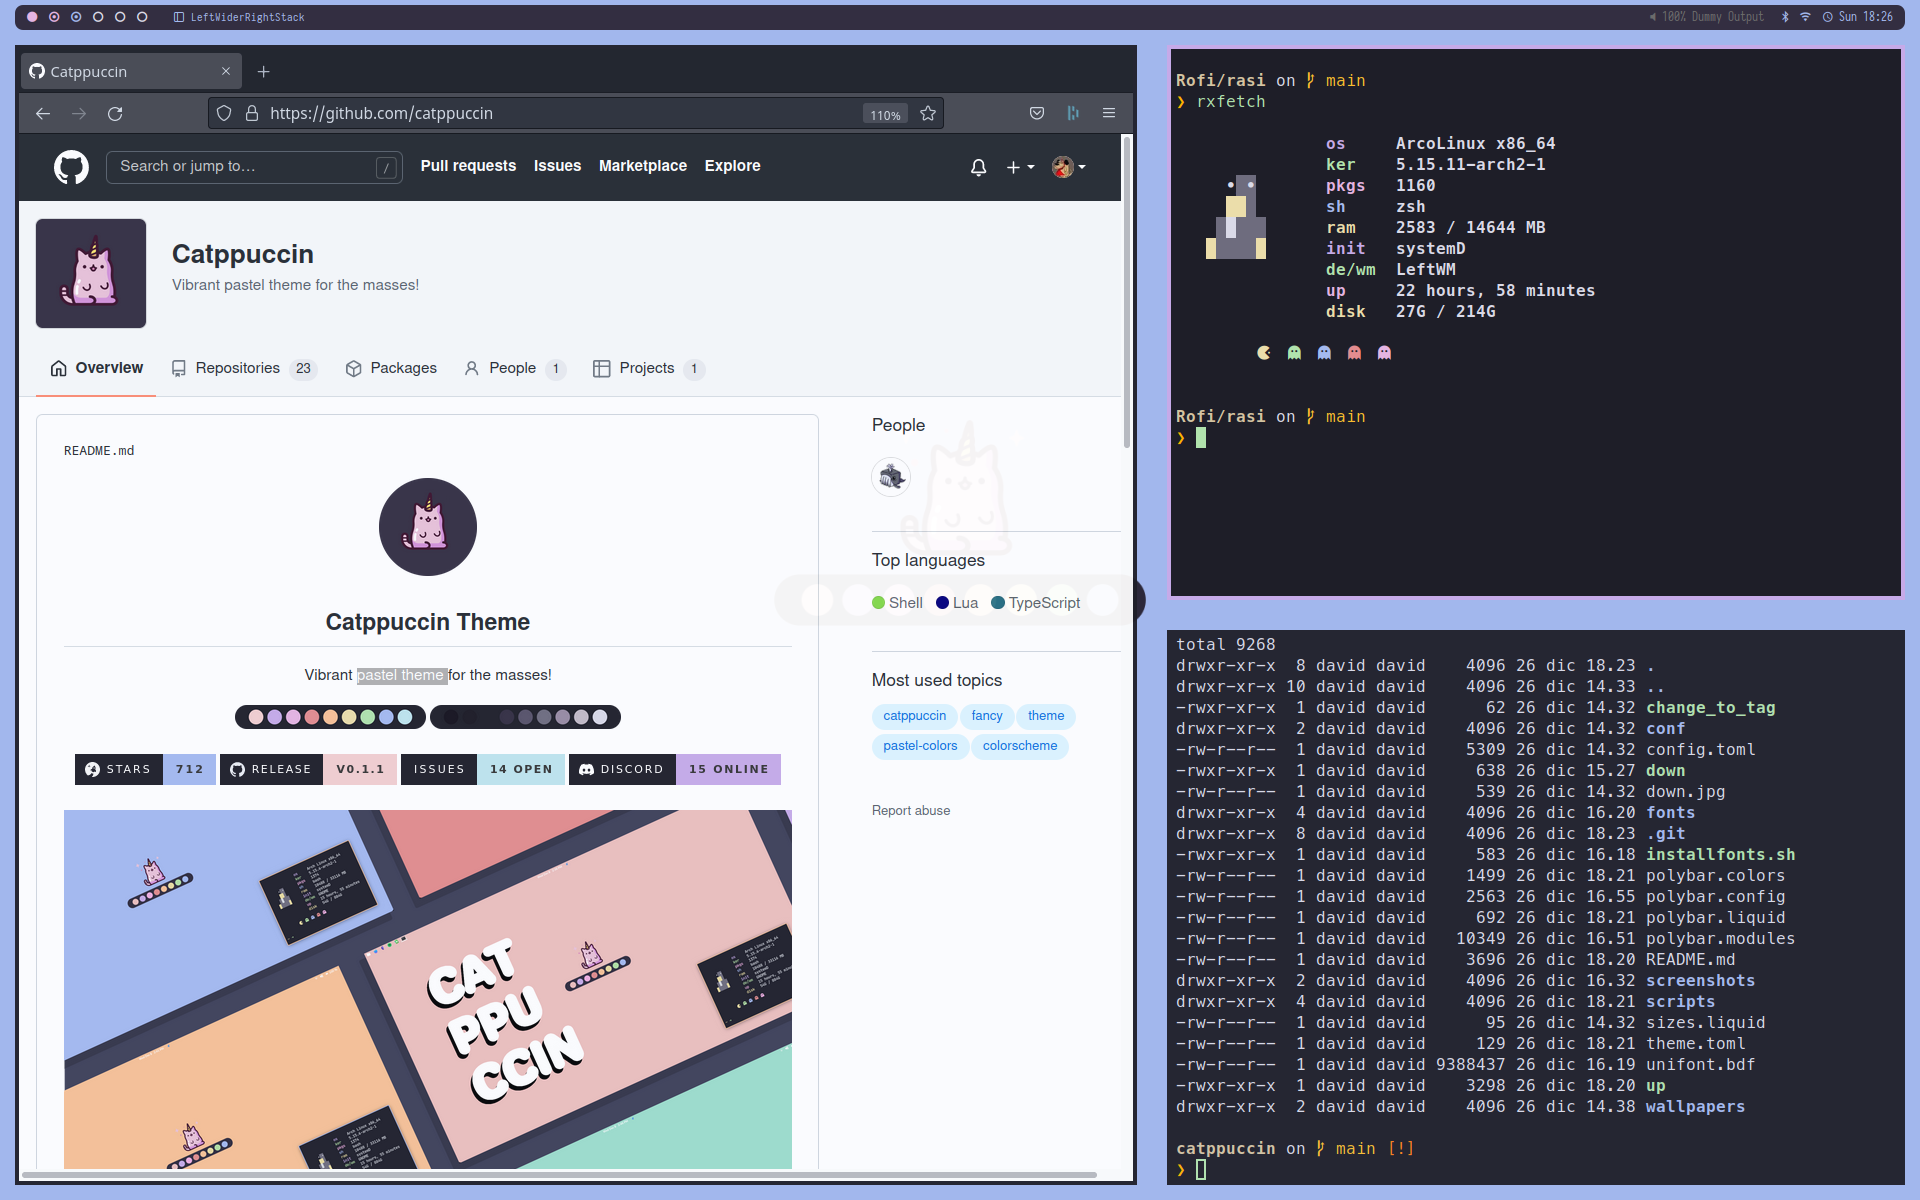
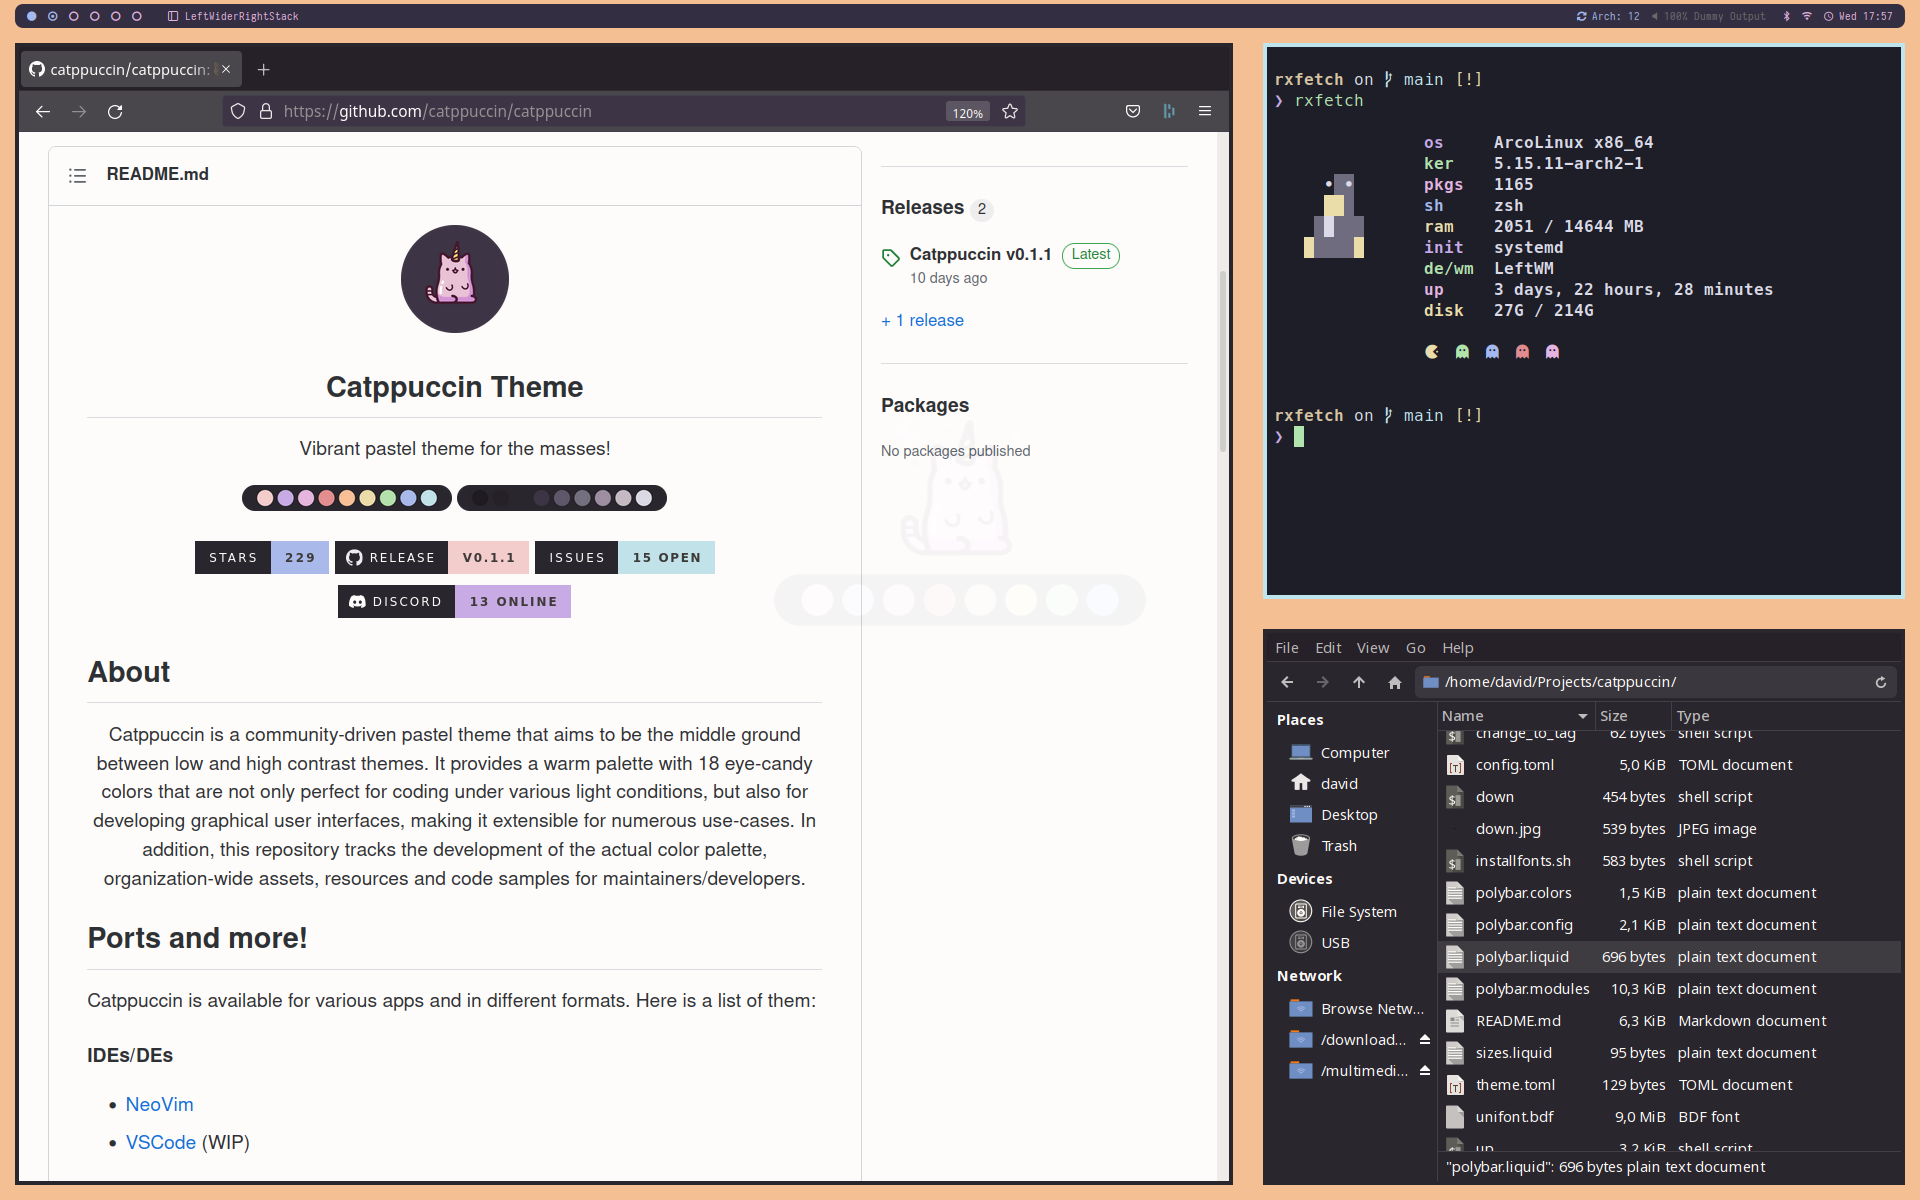
updates

diff --git a/README.md b/README.md
@@ -1,22 +1,23 @@
+# Catppuccin
+*A [LeftWM](https://github.com/leftwm/leftwm) minimalistic theme inspired by the adorable [homonymous pastel theme](https://github.com/catppuccin)*
+
+
 - [Catppuccin](#catppuccin)
 - [Screenshots](#screenshots)
 - [Dependencies](#dependencies)
 - [Installation](#installation)
 - [Configuration](#configuration)
+  - [Colors](#colors)
   - [Applets](#applets)
   - [Wallpapers](#wallpapers)
   - [Polybar](#polybar)
     - [Pulseaudio Control](#pulseaudio-control)
     - [Systray](#systray)
 - [Changelog](#changelog)
+  - [v0.1.1](#v011)
   - [v0.1.0](#v010)
   - [To do](#to-do)
 - [Credit / Sources](#credit--sources)
-
-
-# Catppuccin
-*A [LeftWM](https://github.com/leftwm/leftwm) minimalistic theme inspired by the adorable [homonymous pastel theme](https://github.com/catppuccin)*
-
 
 
 # Screenshots
@@ -94,6 +95,49 @@ $MOD + Shift + r
 
 
 # Configuration 
+
+## Colors
+In a theme like this colors are spread all over the place and it's not fun keep track of everything, every time you want to change something. That's why I am using a custom color script to do the dirty job for me.
+
+Colors are set each time the *UP* script run
+
+```
+source $SCRIPTPATH/scripts/colors.sh catppuccin
+```
+
+Two color themes are already available to choose from:
+- catppuccin
+- catppuccin2
+
+Long story short `colors.sh` performs different tasks, mostly `sed`, in all files where colors are set.
+The parameter after the script is communicating `colors.sh` to read from the colors variables from `scripts/colors_<THEME_NAME>.sh`, and by default that would be `scripts/colors_catppuccin.sh`
+
+```
+## Catppuccin theme
+COLOR_BAR_BACKGROUND="#332E41"
+COLOR_BAR_FOREGROUND="#BEE4ED"
+COLOR_BACKGROUND="#332E41"
+COLOR_FOREGROUND="#DADAE8"
+COLOR_FOREGROUND_DARK="#44475A"
+COLOR_PRIMARY="#E5B4E2"
+COLOR_SECONDARY="#BEE4ED"
+COLOR_ALTERNATE="#FFE70D"
+COLOR_INACTIVE="#757575"
+COLOR_BORDER_ACTIVE="#C6AAE8"
+COLOR_BORDER_INACTIVE="#1E1E28"
+COLOR_BORDER_FLOATING="#F9C096"
+COLOR_APPLET_BACKGROUND="#1E1E28"
+COLOR_APPLET_BACKGROUND_LIGHT="#332E41"
+
+```
+
+So, if you want to change colors manually comment the source `$SCRIPTPATH/scripts/colors.sh catppuccin` or your changes will be overwritten.
+
+My suggestion, to avoid going crazy, would be to use the same method and 
+- create a custom color theme
+- add your theme to the `themes=(catppuccin catppuccin2);` array in `colors.sh`
+- optionally adapt `colors.sh` to your needs
+
 
 ## Applets
 
@@ -185,12 +229,20 @@ If you want to use it change position and adjust the **tray-offset-x** value.
 
 # Changelog
 
+## v0.1.1
+- Multiple color themes
+  - catppuccin
+  - catppuccin2
+- Updated documentation
+- Minor changes
+
+
 ## v0.1.0
 - First release
 
 
 ## To do
-- [ ] More color schemes from the catppuccin project
+- [x] More color schemes from the catppuccin project
 
 
 
@@ -202,3 +254,4 @@ If you want to use it change position and adjust the **tray-offset-x** value.
 
 - Powermenu is loosely based on the [rofi-themes](hhttps://github.com/adi1090x/rofi) by [adi1090x](https://github.com/adi1090x) covered by a GNU General Public License v3.0
 
+- Wallpapers and color schemes by [catppuccin](https://github.com/catppuccin/), of course
